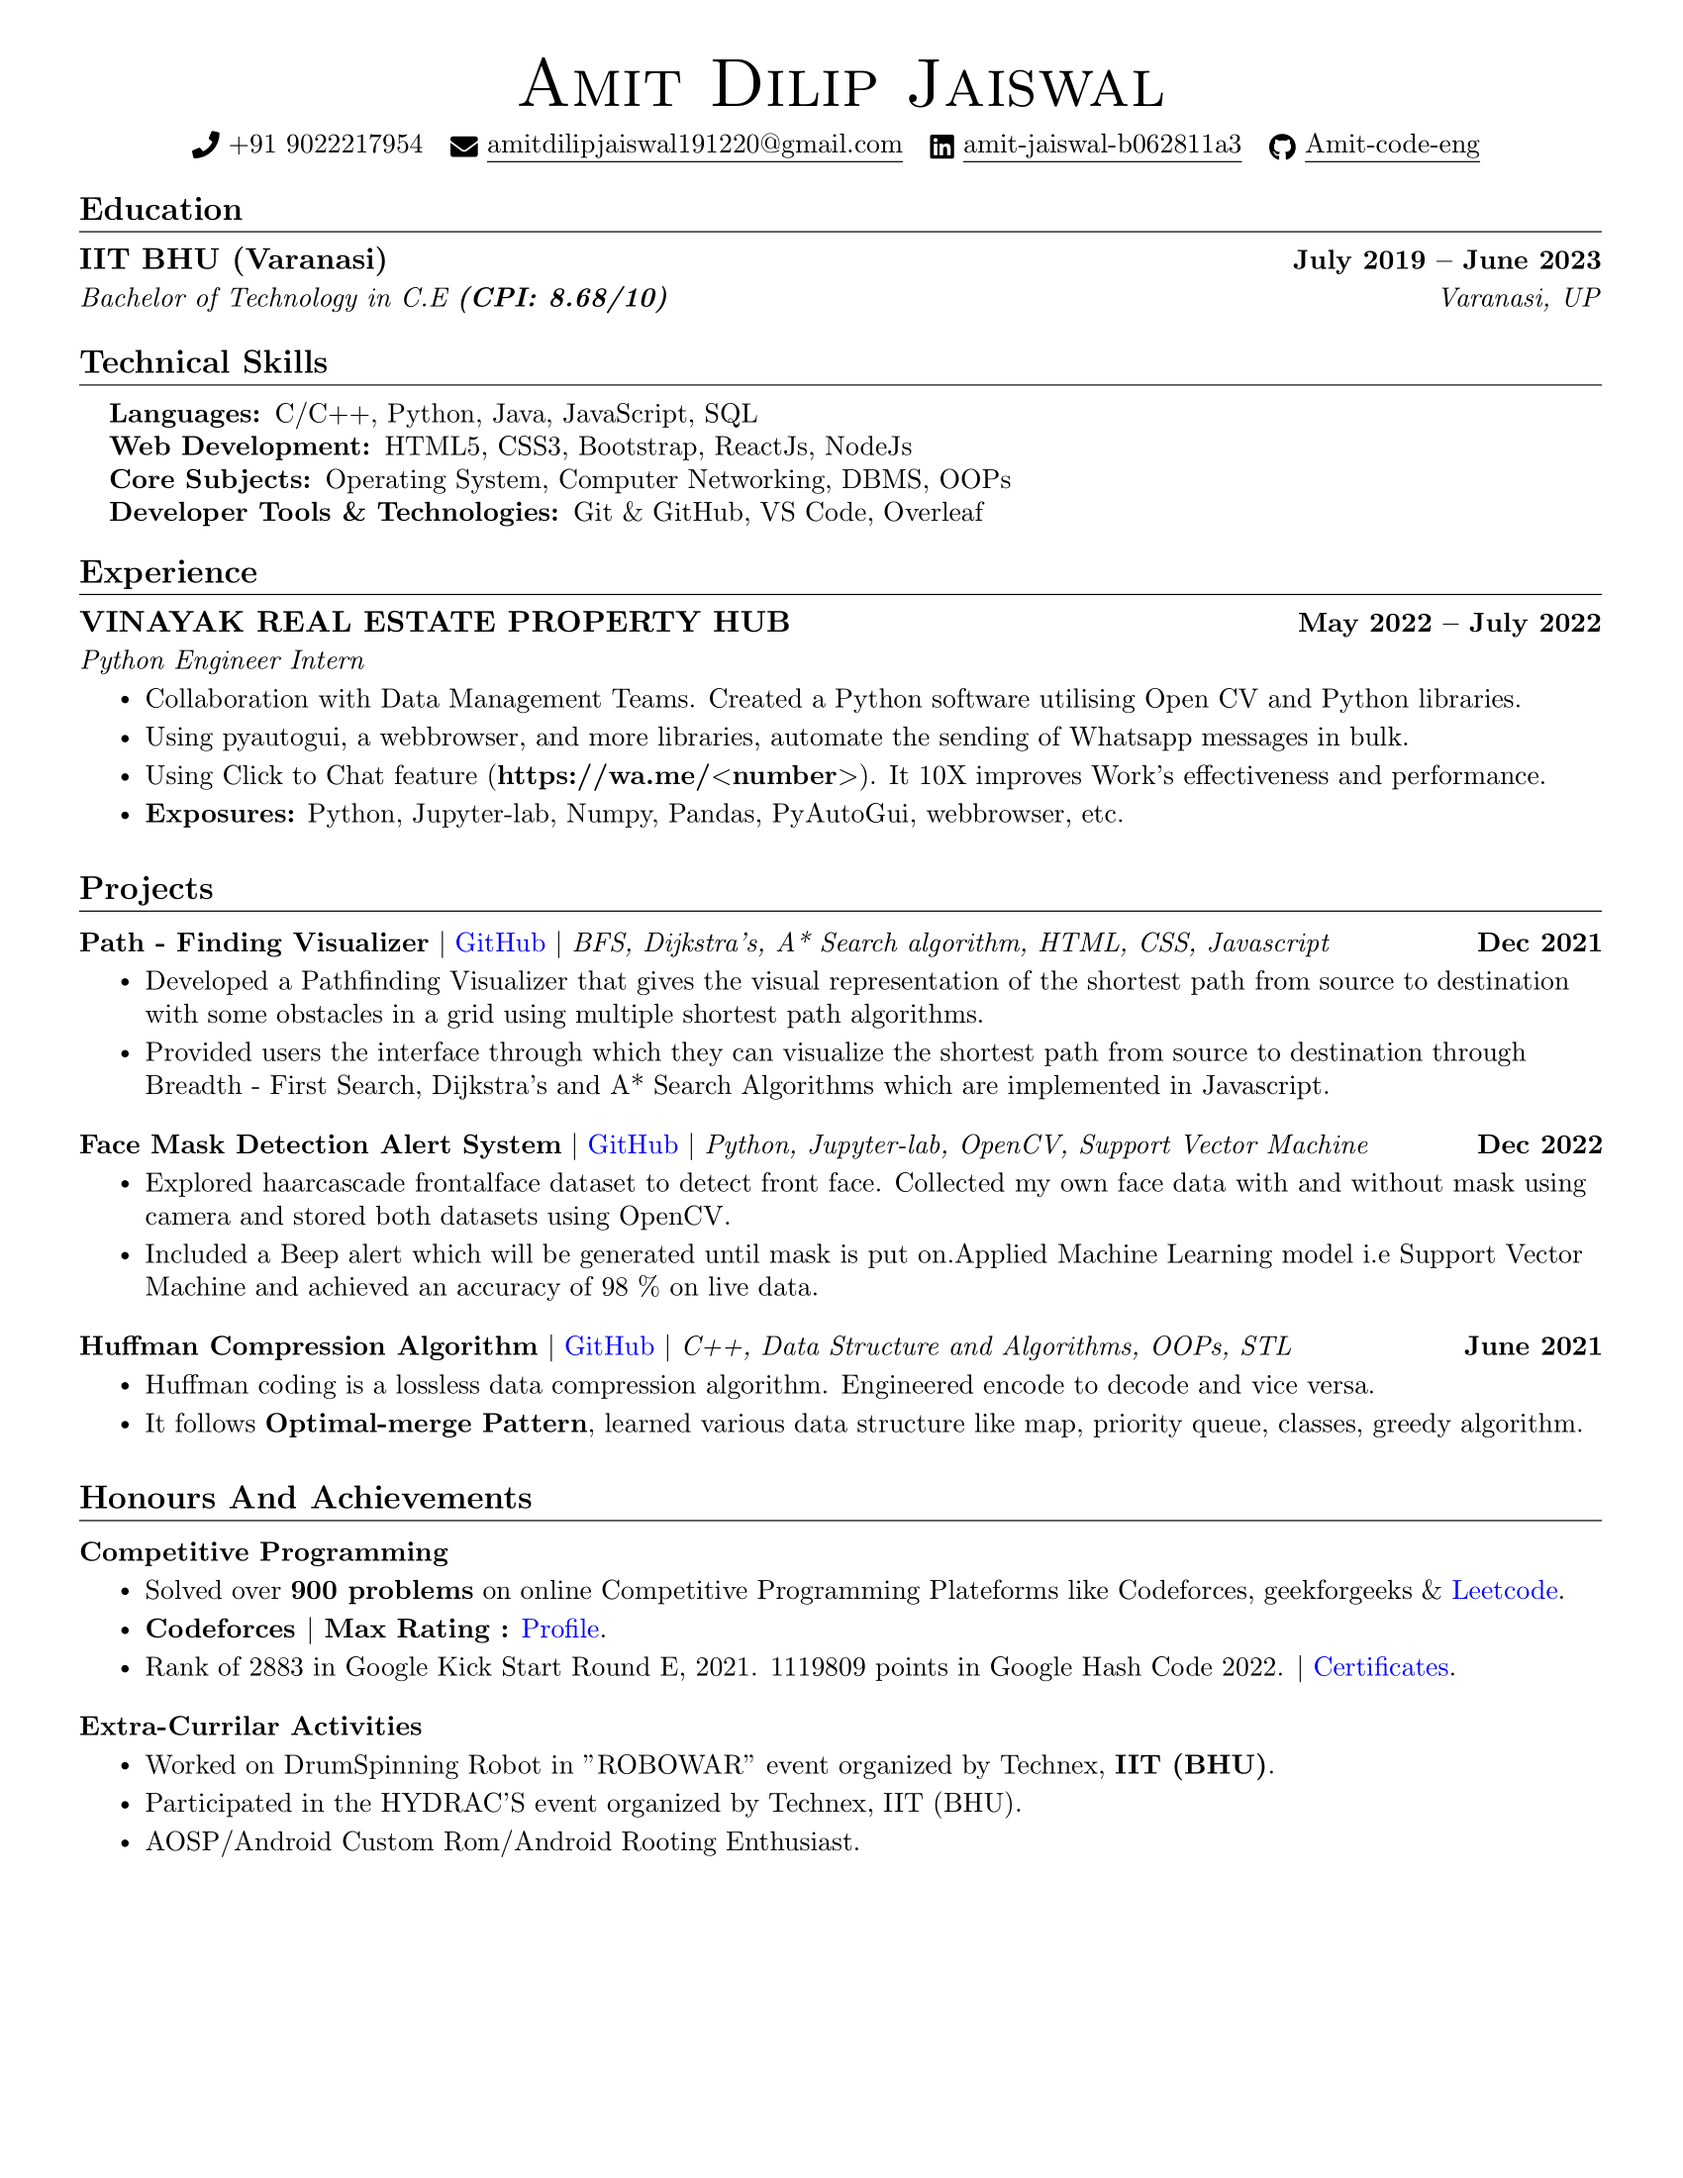
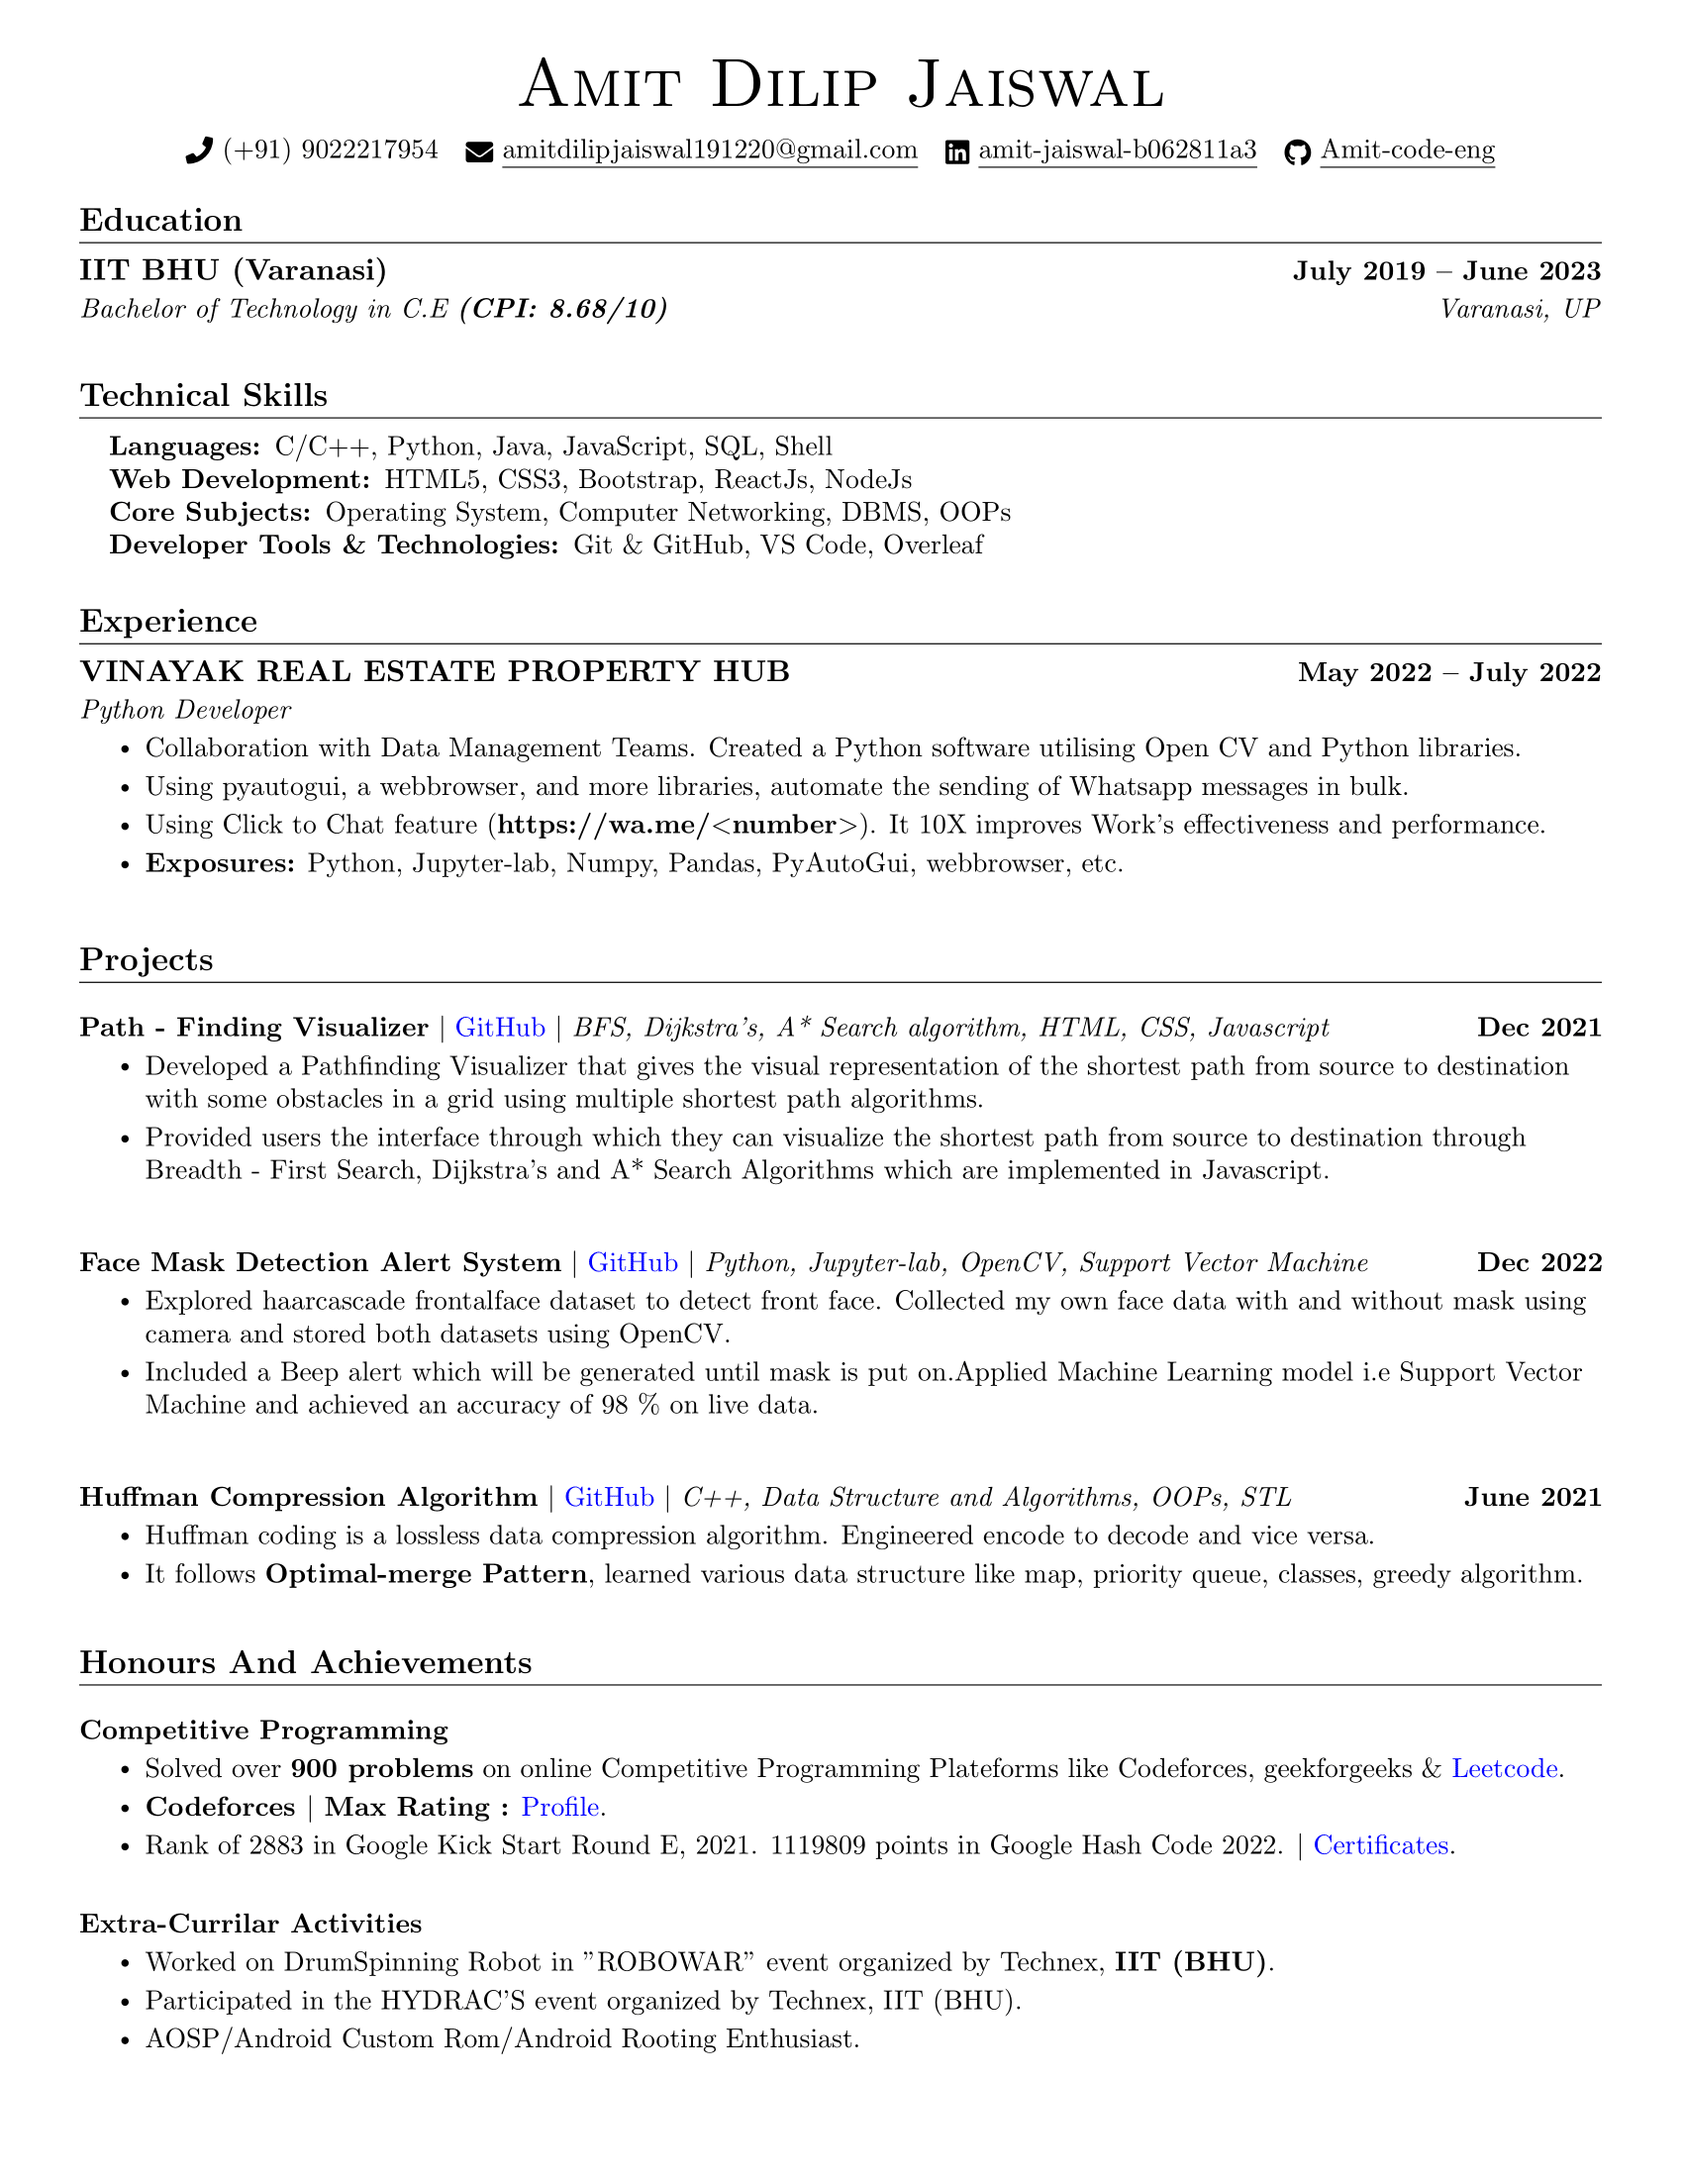
learn shell

Changed region(s): [[0.0312, 0.0618, 0.9665, 0.9582], [0.7171, 0.8964, 0.7482, 0.9273], [0.0624, 0.8655, 0.0935, 0.8964]]

diff --git a/SDE_Resume.tex b/SDE_Resume.tex
@@ -117,11 +117,11 @@
 
 
 \begin{center}
-    {\Huge \scshape Amit Dilip Jaiswal} \\ \vspace{5pt}
-    \small \raisebox{-0.1\height}\faPhone\ {{+91 9022217954}} ~ \href{mailto:amitdilipjaiswal191220@gmail.com}{\raisebox{-0.2\height}\faEnvelope\  \underline{{amitdilipjaiswal191220@gmail.com}}} ~ 
+    {\Huge \scshape Amit Dilip Jaiswal} \\ \vspace{7pt}
+    \small \raisebox{-0.1\height}\faPhone\ {{(+91) 9022217954}} ~ \href{mailto:amitdilipjaiswal191220@gmail.com}{\raisebox{-0.2\height}\faEnvelope\  \underline{{amitdilipjaiswal191220@gmail.com}}} ~ 
     \href{https://www.linkedin.com/in/amit-jaiswal-b062811a3/}{\raisebox{-0.2\height}\faLinkedin\ \underline{{amit-jaiswal-b062811a3}}}  ~
     \href{https://github.com/Amit-code-eng}{\raisebox{-0.2\height}\faGithub\ \underline{{Amit-code-eng}}}
-    \vspace{-2pt}
+    % \vspace{-2pt}
 \end{center}
 
 
@@ -133,20 +133,20 @@
       {Bachelor of Technology in C.E \textbf{(CPI: 8.68/10)}}{Varanasi, UP}
   \resumeSubHeadingListEnd
 
- \vspace{-8pt}
+ \vspace{0pt}
 
 
 %-----------PROGRAMMING SKILLS-----------
 \section{Technical Skills}
  \begin{itemize}[leftmargin=0.15in, label={}]
     \small{\item{
-    \textbf{Languages: }{C/C++, Python, Java, JavaScript, SQL} \\
+    \textbf{Languages: }{C/C++, Python, Java, JavaScript, SQL, Shell} \\
     \textbf{Web Development: }{HTML5, CSS3, Bootstrap, ReactJs, NodeJs}\\
      \textbf{Core Subjects: }{Operating System, Computer Networking, DBMS, OOPs} \\
      \textbf{Developer Tools \& Technologies: }{Git \& GitHub, VS Code, Overleaf} \\
     }}
  \end{itemize}
- \vspace{-16pt}
+ \vspace{-10pt}
 
 
 %-----------EXPERIENCE-----------
@@ -155,7 +155,7 @@
 
     \resumeSubheading
       {VINAYAK REAL ESTATE PROPERTY HUB}{May 2022 -- July 2022}
-      {Python Engineer Intern}{}
+      {Python Developer}{}
       \resumeItemListStart
         \resumeItem{Collaboration with Data Management Teams. Created a Python software utilising Open CV and Python libraries.}
         \resumeItem{Using pyautogui, a webbrowser, and more libraries, automate the sending of Whatsapp messages in bulk.}
@@ -163,11 +163,11 @@
         \resumeItem{\textbf{Exposures:} Python, Jupyter-lab, Numpy, Pandas, PyAutoGui, webbrowser, etc.}
       \resumeItemListEnd
   \resumeSubHeadingListEnd
-\vspace{-8pt}
+\vspace{0pt}
 
 %-----------PROJECTS-----------
 \section{Projects}
-    \vspace{-5pt}
+    \vspace{0pt}
     \resumeSubHeadingListStart
       \resumeProjectHeading
         {\textbf{Path - Finding Visualizer} $|$ {\href{https://github.com/Amit-code-eng/pathfinding-visualizer-master.git}{\textcolor{blue}{GitHub}}} $|$ \emph{BFS, Dijkstra's, A* Search algorithm, HTML, CSS, Javascript}}{Dec 2021}
@@ -178,7 +178,7 @@
             Breadth - First Search, Dijkstra's and A* Search Algorithms which are implemented in Javascript.
 }
           \resumeItemListEnd
-        \vspace{-12pt}
+        \vspace{0pt}
 
 \resumeProjectHeading
         {\textbf{Face Mask Detection Alert System} $|$ {\href{https://github.com/Amit-code-eng/Face-Mask-Detection-Alert-System.git}{\textcolor{blue}{GitHub}}} $|$ \emph{Python, Jupyter-lab, OpenCV, Support Vector Machine}}{Dec 2022}
@@ -187,7 +187,7 @@
 }
             \resumeItem{Included a Beep alert which will be generated until mask is put on.Applied Machine Learning model i.e Support Vector Machine and achieved an accuracy of 98 \% on live data.}
           \resumeItemListEnd
-        \vspace{-12pt}
+        \vspace{0pt}
         
         \resumeProjectHeading
         {\textbf{Huffman Compression Algorithm} $|$ {\href{https://github.com/Amit-code-eng/Huffman-Compression-Algorithm.git}{\textcolor{blue}{GitHub}}} $|$ \emph{C++, Data Structure and Algorithms, OOPs, STL}}{June 2021}
@@ -199,11 +199,11 @@
           \resumeItemListEnd
          
     \resumeSubHeadingListEnd
-\vspace{-20pt}
+\vspace{-15pt}
 
 %--------------Competitive Programming---------
 \section{Honours And Achievements}
-    \vspace{-5pt}
+    \vspace{0pt}
     \resumeSubHeadingListStart
 
 \resumeProjectHeading
@@ -217,7 +217,7 @@
           \resumeItem{Rank of 2883 in Google Kick Start Round E, 2021. 1119809 points in Google Hash Code 2022. $|$ {\href{https://drive.google.com/drive/folders/1-VBBGuS5D2wYUL2vgizWIv4f-onH6lZV}{\textcolor{blue}{Certificates}}}.}
         
 \resumeItemListEnd
-\vspace{-12pt}
+\vspace{-5pt}
 
 \resumeProjectHeading
         {\textbf{Extra-Currilar Activities} }{}
@@ -230,6 +230,6 @@
 
     \resumeSubHeadingListEnd
 
- \vspace{-16pt}
+ \vspace{0pt}
 
 \end{document}
